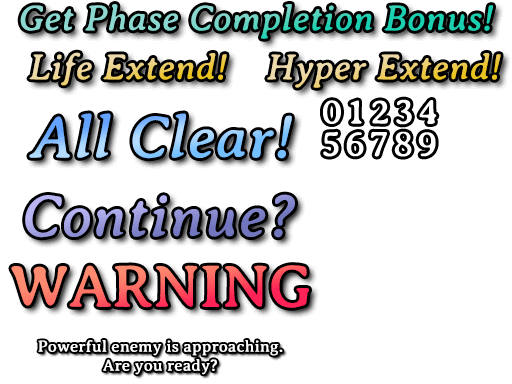
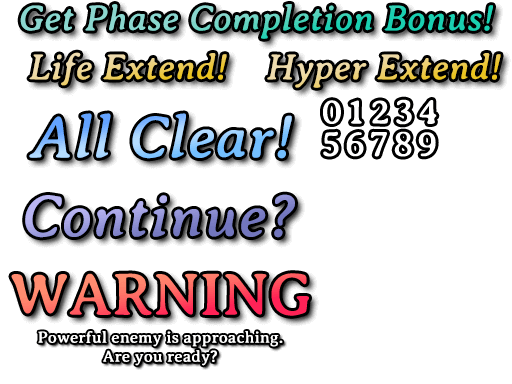
Update overlay.webp

Changed region(s): [[0.0, 0.6562, 0.625, 1.0]]

diff --git a/lib/stg_overlay.py b/lib/stg_overlay.py
@@ -42,6 +42,7 @@ def draw(surface: pygame.Surface):
             (continueRemainSurface, (384 - continueRemainSurface.get_width() // 2, 576 - continueRemainSurface.get_height())),
         ))
 
+    blitSeq = []
     for img, remain, centerX, centerY in (
         (overlayHyperExtend, overlayStatus[OverLayStatusIndex.HYPER_REMAIN], 384, 96),
         (overlayLifeExtend, overlayStatus[OverLayStatusIndex.LIFE_REMAIN], 384, 96),
@@ -54,7 +55,18 @@ def draw(surface: pygame.Surface):
             img = pygame.transform.scale(img, (img.get_width(), int(lib.utils.linearInterpolation(remain / 30, 0, img.get_height()))))
         elif remain > 210:
             img = pygame.transform.scale(img, (img.get_width(), int(lib.utils.easeOutQuadInterpolation(1 - (remain - 210) / 30, 0, img.get_height()))))
-        surface.blit(img, (centerX - img.get_width() // 2, centerY - img.get_height() // 2))
+        blitSeq.append((img, (centerX - img.get_width() // 2, centerY - img.get_height() // 2)))
+    if overlayStatus[OverLayStatusIndex.WARNING_REMAIN]:
+        appearTime = 330 - overlayStatus[OverLayStatusIndex.WARNING_REMAIN]
+        if appearTime < 60:
+            appearTime %= 20
+            overlayWarning.set_alpha(abs(appearTime - 10) / 10 * 255)
+        elif appearTime > 300:
+            overlayWarning.set_alpha((330 - appearTime) / 30 * 255)
+        else:
+            overlayWarning.set_alpha(255)
+        blitSeq.append((overlayWarning, (384 - img.get_width() // 2, 240 - img.get_height() // 2)))
+    surface.blits(blitSeq)
 
     if overlayStatus[OverLayStatusIndex.PHASE_BONUS_REMAIN]:
         phaseBonusDigits = lib.utils.splitDigits(overlayStatus[OverLayStatusIndex.PHASE_BONUS_VALUE])
@@ -71,15 +83,3 @@ def draw(surface: pygame.Surface):
         if overlayStatus[OverLayStatusIndex.PHASE_BONUS_REMAIN] < 30:
             phaseBonusSurface = pygame.transform.scale(phaseBonusSurface, (phaseBonusSurface.get_width(), int(lib.utils.linearInterpolation(overlayStatus[OverLayStatusIndex.PHASE_BONUS_REMAIN] / 30, 0, phaseBonusSurface.get_height()))))
         surface.blit(phaseBonusSurface, (384 - phaseBonusSurface.get_width() // 2, 288 - phaseBonusSurface.get_height() // 2))
-
-    if overlayStatus[OverLayStatusIndex.WARNING_REMAIN]:
-        appearTime = 330 - overlayStatus[OverLayStatusIndex.WARNING_REMAIN]
-        if appearTime < 60:
-            appearTime %= 20
-            overlayWarning.set_alpha(abs(appearTime - 10) / 10 * 255)
-        elif appearTime > 300:
-            overlayWarning.set_alpha((330 - appearTime) / 30 * 255)
-        else:
-            overlayWarning.set_alpha(255)
-        surface.blit(overlayWarning, (384 - img.get_width() // 2, 240 - img.get_height() // 2))
-
